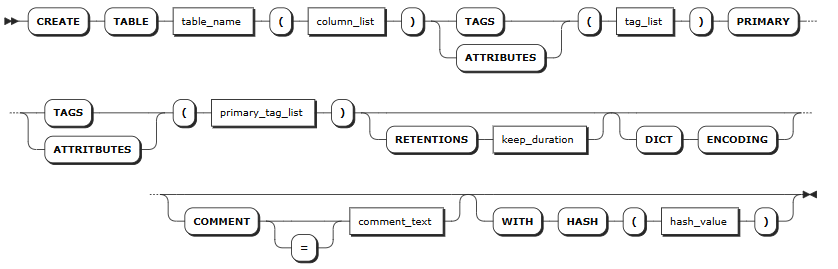
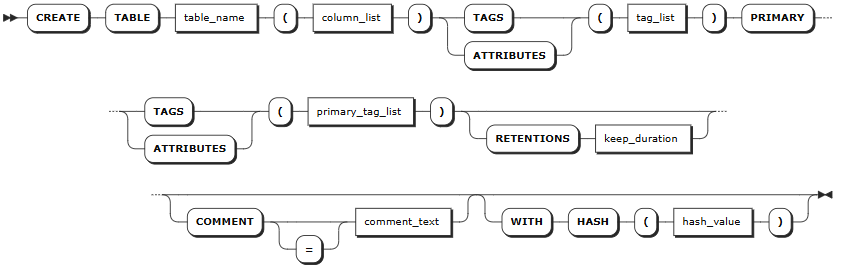
commit-message: remove dict encoding

diff --git a/db-administration/db-object-mgmt/ts-db/table-mgmt-ts.md b/db-administration/db-object-mgmt/ts-db/table-mgmt-ts.md
@@ -20,7 +20,6 @@ CREATE TABLE <table_name> (<column_list>)
 [TAGS|ATTRIBUTES] (<tag_list>) 
 PRIMARY [TAGS|ATTRIBUTES] (<primary_tag_list>) 
 [RETENTIONS <keep_duration>]
-[DICT ENCODING]
 [COMMENT [=] <'comment_text'>]
 [WITH HASH(<hash_value>)];
 ```
@@ -30,7 +29,7 @@ PRIMARY [TAGS|ATTRIBUTES] (<primary_tag_list>)
 :::warning 说明
 
 - 目前，时序表名、列名和标签名称不支持中文字符。
-- 配置可选参数时，必须严格按照 `[RETENTIONS <keep_duration>] [DICT ENCODING] [COMMENT [=] <'comment_text'>] [WITH HASH(<hash_value>)]` 的顺序，否则系统将会报错。
+- 配置可选参数时，必须严格按照 `[RETENTIONS <keep_duration>] [COMMENT [=] <'comment_text'>] [WITH HASH(<hash_value>)]` 的顺序，否则系统将会报错。
 - 3.0.0 版本中，表活跃时间和分区间隔的配置不会生效。
 :::
 
@@ -41,7 +40,6 @@ PRIMARY [TAGS|ATTRIBUTES] (<primary_tag_list>)
 | `tag_list`| 标签列表，支持添加一个或多个标签定义，最多可指定 `128` 个标签。标签定义包含标签名、数据类型和注释信息。<br>- 标签名的最大长度为 128 字节，支持指定 NOT NULL，默认为空值。不支持 TIMESTAMP、TIMESTAMPTZ、NVARCHAR 和 GEOMETRY 数据类型。<br >- 支持在 nullable 条件之后添加标签列的注释信息。 |
 | `primary_tag_list`| 主标签列表，支持添加一个或多个主标签名称，最多可指定 `4` 个。主标签必须包含在标签列表内且指定为 NOT NULL，不支持浮点类型和除 VARCHAR 之外的变长数据类型。VARCHAR 类型长度默认 `64` 字节，最大长度为 `128` 字节。|
 | `keep_duration` | 可选参数，设置表的数据生命周期。数据超过此时长后将被系统自动清除。<br>默认值： `0s`（永久保留）<br>时间单位：<br>- 秒：`s` 或 `second`<br>- 分钟：`m` 或 `minute`<br>- 小时：`h` 或 `hour`<br>- 天：`d` 或 `day`<br>- 周：`w` 或 `week`<br>- 月：`mon` 或 `month`<br>- 年：`y` 或 `year`<br>取值范围：正整数，上限为 1000 年<br>**说明：**<br>- 表级设置优先于库级设置。<br>- 保留时长越长，存储空间占用越大，请根据业务需求合理配置。<br>- 如果待写入的数据已超过生命周期限制，系统会直接丢弃该数据，不予写入。|
-| `DICT ENCODING`| 可选参数，启用字符串的字典编码功能，提升字符串数据的压缩能力。表中存储的字符串数据重复率越高，压缩优化效果越明显。该功能只适用于 CHAR 和 VARCHAR 长度小于等于 `1023` 的字符串，且只能在建表时开启。开启后不支持禁用。 |
 | `[COMMENT [=] <'comment_text'>` | 可选项，定义表的注释信息。 |
 | `hash_value`| 可选参数，用于定义分布式集群中 HASH 环的大小，决定最大 Range 分片数量。例如 HASH(100) 表示最多可产生 100 个不同的 Range 分片。<br><br>默认值为 2000，表示最多可产生 2000 个 Range 分片。支持设置范围为 [1,50000]。<br><br>性能影响：HASH 值过小时将导致多个设备的数据集中在少数 Range 中，形成写入热点，HASH 值过大时则会导致 Range 数量过多，增加管理开销。<br><br>推荐配置：建议根据预期设备数量选择合适的 HASH 值：<br>- 设备数 ≤ 1,000：HASH 值 < 20<br>- 设备数 ≤ 50,000：HASH 值 < 2,000<br>- 设备数 ≤ 1,000,000：HASH 值 < 10,000|
 
@@ -100,14 +98,6 @@ PRIMARY [TAGS|ATTRIBUTES] (<primary_tag_list>)
     -------+------------+---------
       temp | 20d        | NULL
     (1 row)
-    ```
-
-- 创建时序表并开启字符串字典编码。
-
-    以下示例创建一个名为 `water` 的时序表并开启字符串字典编码。
-
-    ```sql
-    CREATE TABLE water (ts TIMESTAMP NOT NULL, value FLOAT) TAGS (sensor_id INT NOT NULL) PRIMARY TAGS (sensor_id) DICT ENCODING;
     ```
 
 - 创建时序表并为表及其数据列和标签列添加注释信息。

diff --git a/sql-reference/ddl/ts-db/ts-table.md b/sql-reference/ddl/ts-db/ts-table.md
@@ -22,7 +22,7 @@ id: ts-table
 :::warning 说明
 
 - 目前，时序表名、列名和标签名称不支持中文字符。
-- 配置可选参数时，必须严格按照 `[RETENTIONS <keep_duration>] [DICT ENCODING] [COMMENT [=] <'comment_text'>] [WITH HASH(<hash_value>)]` 的顺序，否则系统将会报错。
+- 配置可选参数时，必须严格按照 `[RETENTIONS <keep_duration>] [COMMENT [=] <'comment_text'>] [WITH HASH(<hash_value>)]` 的顺序，否则系统将会报错。
 - 3.0.0 版本中，表活跃时间和分区间隔的配置不会生效。
 
 :::
@@ -34,7 +34,6 @@ id: ts-table
 | `tag_list`| 标签列表，支持添加一个或多个标签定义，最多可指定 `128` 个标签。标签定义包含标签名、数据类型和注释信息。<br>- 标签名的最大长度为 128 字节，支持指定 NOT NULL，默认为空值。不支持 TIMESTAMP、TIMESTAMPTZ、NVARCHAR 和 GEOMETRY 数据类型。<br >- 支持在 nullable 条件之后添加标签列的注释信息。 |
 | `primary_tag_list`| 主标签列表，支持添加一个或多个主标签名称，最多可指定 `4` 个。主标签必须包含在标签列表内且指定为 NOT NULL，不支持浮点类型和除 VARCHAR 之外的变长数据类型。VARCHAR 类型长度默认 `64` 字节，最大长度为 `128` 字节。|
 | `keep_duration` | 可选参数，设置表的数据生命周期。数据超过此时长后将被系统自动清除。<br>默认值： `0s`（永久保留）<br>时间单位：<br>- 秒：`s` 或 `second`<br>- 分钟：`m` 或 `minute`<br>- 小时：`h` 或 `hour`<br>- 天：`d` 或 `day`<br>- 周：`w` 或 `week`<br>- 月：`mon` 或 `month`<br>- 年：`y` 或 `year`<br>取值范围：正整数，上限为 1000 年<br>**说明：**<br>- 表级设置优先于库级设置。<br>- 保留时长越长，存储空间占用越大，请根据业务需求合理配置。<br>- 如果待写入的数据已超过生命周期限制，系统会直接丢弃该数据，不予写入。|
-| `DICT ENCODING`| 可选参数，启用字符串的字典编码功能，提升字符串数据的压缩能力。表中存储的字符串数据重复率越高，压缩优化效果越明显。该功能只适用于 CHAR 和 VARCHAR 长度小于等于 `1023` 的字符串，且只能在建表时开启。开启后不支持禁用。 |
 | `[COMMENT [=] <'comment_text'>` | 可选参数，定义表的注释信息。 |
 | `hash_value`| 可选参数，用于定义分布式集群中 HASH 环的大小，决定最大 Range 分片数量。例如 HASH(100) 表示最多可产生 100 个不同的 Range 分片。<br><br>默认值为 2000，表示最多可产生 2000 个 Range 分片。支持设置范围为 [1,50000]。<br><br>性能影响：HASH 值过小时将导致多个设备的数据集中在少数 Range 中，形成写入热点，HASH 值过大时则会导致 Range 数量过多，增加管理开销。<br><br>推荐配置：建议根据预期设备数量选择合适的 HASH 值：<br>- 设备数 ≤ 1,000：HASH 值 < 20<br>- 设备数 ≤ 50,000：HASH 值 < 2,000<br>- 设备数 ≤ 1,000,000：HASH 值 < 10,000 |
 
@@ -93,14 +92,6 @@ id: ts-table
     -------+------------+---------
       temp | 20d        | NULL
     (1 row)
-    ```
-
-- 创建时序表并开启字符串字典编码。
-
-    以下示例创建一个名为 `water` 的时序表并开启字符串字典编码。
-
-    ```sql
-    CREATE TABLE water (ts TIMESTAMP NOT NULL, value FLOAT) TAGS (sensor_id INT NOT NULL) PRIMARY TAGS (sensor_id) DICT ENCODING;
     ```
 
 - 创建时序表并为表及其数据列和标签列添加注释信息。

diff --git a/en/db-administration/db-object-mgmt/ts-db/table-mgmt-ts.md b/en/db-administration/db-object-mgmt/ts-db/table-mgmt-ts.md
@@ -22,7 +22,6 @@ CREATE TABLE <table_name> (<column_list>)
 [TAGS|ATTRIBUTES] (<tag_list>) 
 PRIMARY [TAGS|ATTRIBUTES] (<primary_tag_list>) 
 [RETENTIONS <keep_duration>]
-[DICT ENCODING]
 [COMMENT [=] <'comment_text'>]
 [WITH HASH(<hash_value>)];
 ```
@@ -32,7 +31,7 @@ PRIMARY [TAGS|ATTRIBUTES] (<primary_tag_list>)
 :::warning Note
 
 - Currently, the table name, column name, and tag name do not support Chinese characters.
-- The optional parameters must be configured in an order of `[RETENTIONS <keep_duration>] [DICT ENCODING] [COMMENT [=] <'comment_text'>] [WITH HASH(<hash_value>)]`. Otherwise, the system returns an error.
+- The optional parameters must be configured in an order of `[RETENTIONS <keep_duration>] [COMMENT [=] <'comment_text'>] [WITH HASH(<hash_value>)]`. Otherwise, the system returns an error.
 - In version 3.0.0, the `activetime` and `partition interval` configurations are ignored.
 
 :::
@@ -44,7 +43,6 @@ PRIMARY [TAGS|ATTRIBUTES] (<primary_tag_list>)
 | `tag_list`| A comma-separated list of tags. You can specify one or more tags. Each table supports up to 128 tags. Each tag requires a name and data type. The tag name supports up to 128 bytes. You can set the data type to NOT NULL. By default, the data type is set to NULL. KWDB does not support setting TIMESTAMP, TIMESTAMPTZ, NVARCHAR or GEOMETRY data types for time-series tables.  <br > Support adding comments to tag columns after the nullable condition.  |
 | `primary_tag_list`| A comma-separated list of primary tags. You can specify one or more primary tags. Each table supports up to 4 primary tags. Primary tags must be included in the list of tags and set to NOT NULL. Currently, primary tags does not support floating-point and variable-length data types, except for the VARCHAR data type. By default, a VARCHAR-typed data length is `64` bytes. The maximum of a VARCHAR-typed data length is `128` bytes. |
 | `keep_duration`| Optional. Defines the data retention period for the database. Data older than this duration will be automatically purged.<br>Default: `0s` (retain indefinitely)<br>Time units:<br>- Seconds: `s` or `second`<br>- Minutes: `m` or `minute`<br>- Hours: `h` or `hour`<br>- Days: `d` or `day`<br>- Weeks: `w` or `week`<br>- Months: `mon` or `month`<br>- Years: `y` or `year`<br>Valid range: Positive integer up to 1000 years<br>Note:<br>- Table-level retention settings override database-level settings.<br>- Longer retention periods consume more storage. Configure based on your business needs.<br>- Data that already exceeds the retention period at write time will be rejected and not stored. |
-| `DICT ENCODING`| Optional. Enable dictionary encoding to improve the compression capability of STRING-typed data. The higher the repetition rate of the STRING-typed data is, the better the data is compressed. This function is only applied to CHAR- and VARCHAR-typed data whose length is less than or equal to `1023`. You can only enable it when creating a table. Once enabled, you cannot disable it. |
 | `comment_text` | Optional. Specify the comment to be associated to the table.|
 | `hash_value`| Optional. Defines the HASH ring size in a distributed cluster, which determines the maximum number of data ranges. For example, `HASH(100)` allows up to 100 distinct ranges.<br><br>Default: 2000 (up to 2000 ranges)<br>Valid range: [1, 50000]<br><br>Performance considerations:<br>- Too small: Data from multiple devices concentrates in fewer ranges, causing write hotspots<br>- Too large: Excessive ranges increase management overhead<br><br>Recommended values based on device count:<br>- ≤ 1,000 devices: `hash_value` < 20<br>- ≤ 50,000 devices: `hash_value` < 2,000<br>- ≤ 1,000,000 devices: `hash_value` < 10,000|
 
@@ -99,12 +97,6 @@ PRIMARY [TAGS|ATTRIBUTES] (<primary_tag_list>)
     -------+------------+---------
       temp | 20d        | NULL
     (1 row)
-    ```
-
-- Create a table and enable dictionary encoding.
-
-    ```sql
-    CREATE TABLE water (ts TIMESTAMP NOT NULL, value FLOAT) TAGS (sensor_id INT NOT NULL) PRIMARY TAGS (sensor_id) DICT ENCODING;
     ```
 
 - Create a table and associate comments to the data columns, the tag columns and the table.

diff --git a/en/sql-reference/ddl/ts-db/ts-table.md b/en/sql-reference/ddl/ts-db/ts-table.md
@@ -24,7 +24,7 @@ The user must be a member of the `admin` role or have been granted the `CREATE` 
 :::warning Note
 
 - Currently, the table name, column name, and tag name do not support Chinese characters.
-- The optional parameters must be configured in an order of `[RETENTIONS <keep_duration>] [DICT ENCODING] [COMMENT [=] <'comment_text'>]`. Otherwise, the system returns an error.
+- The optional parameters must be configured in an order of `[RETENTIONS <keep_duration>] [COMMENT [=] <'comment_text'>]`. Otherwise, the system returns an error.
 - In version 3.0.0, the `activetime` and `partition interval` configurations are ignored.
 
 :::
@@ -36,7 +36,6 @@ The user must be a member of the `admin` role or have been granted the `CREATE` 
 | `tag_list`| A comma-separated list of tags. You can specify one or more tags. Each table supports up to 128 tags. Each tag requires a name and data type. The tag name supports up to 128 bytes. You can set the data type to NOT NULL. By default, the data type is set to NULL. KWDB does not support setting TIMESTAMP, TIMESTAMPTZ, NVARCHAR or GEOMETRY data types for time-series tables.  <br > Support adding comments to tag columns after the nullable condition.  |
 | `primary_tag_list`| A comma-separated list of primary tags. You can specify one or more primary tags. Each table supports up to 4 primary tags. Primary tags must be included in the list of tags and set to NOT NULL. Currently, primary tags does not support floating-point and variable-length data types, except for the VARCHAR data type. By default, a VARCHAR-typed data length is `64` bytes. The maximum of a VARCHAR-typed data length is `128` bytes. |
 | `keep_duration`| Optional. Defines the data retention period for the database. Data older than this duration will be automatically purged.<br>Default: `0s` (retain indefinitely)<br>Time units:<br>- Seconds: `s` or `second`<br>- Minutes: `m` or `minute`<br>- Hours: `h` or `hour`<br>- Days: `d` or `day`<br>- Weeks: `w` or `week`<br>- Months: `mon` or `month`<br>- Years: `y` or `year`<br>Valid range: Positive integer up to 1000 years<br>Note:<br>- Table-level retention settings override database-level settings.<br>- Longer retention periods consume more storage. Configure based on your business needs.<br>- Data that already exceeds the retention period at write time will be rejected and not stored. |
-| `DICT ENCODING`| Optional. Enable dictionary encoding to improve the compression capability of STRING-typed data. The higher the repetition rate of the STRING-typed data is, the better the data is compressed. This function is only applied to CHAR- and VARCHAR-typed data whose length is less than or equal to `1023`. You can only enable it when creating a table. Once enabled, you cannot disable it. |
 | `comment_text` | Optional. Specify the comment to be associated to the table.|
 | `hash_value`| Optional. Defines the HASH ring size in a distributed cluster, which determines the maximum number of data ranges. For example, `HASH(100)` allows up to 100 distinct ranges.<br><br>Default: 2000 (up to 2000 ranges)<br>Valid range: [1, 50000]<br><br>Performance considerations:<br>- Too small: Data from multiple devices concentrates in fewer ranges, causing write hotspots<br>- Too large: Excessive ranges increase management overhead<br><br>Recommended values based on device count:<br>- ≤ 1,000 devices: `hash_value` < 20<br>- ≤ 50,000 devices: `hash_value` < 2,000<br>- ≤ 1,000,000 devices: `hash_value` < 10,000|
 
@@ -91,12 +90,6 @@ The user must be a member of the `admin` role or have been granted the `CREATE` 
     -------+------------+---------
       temp | 20d        | NULL
     (1 row)
-    ```
-
-- Create a table and enable dictionary encoding.
-
-    ```sql
-    CREATE TABLE water (ts TIMESTAMP NOT NULL, value FLOAT) TAGS (sensor_id INT NOT NULL) PRIMARY TAGS (sensor_id) DICT ENCODING;
     ```
 
 - Create a table and associate comments to the data columns, the tag columns and the table.